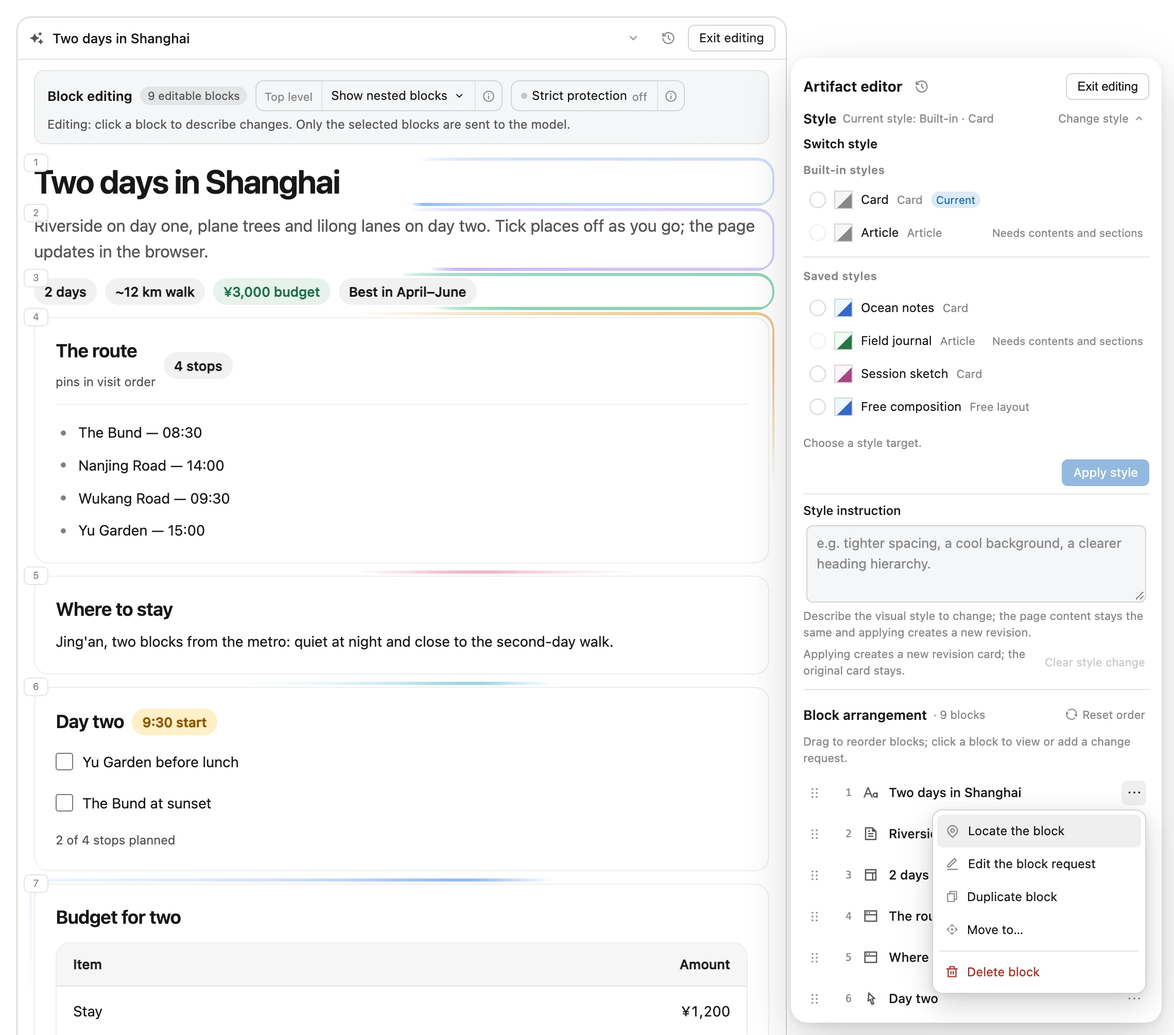
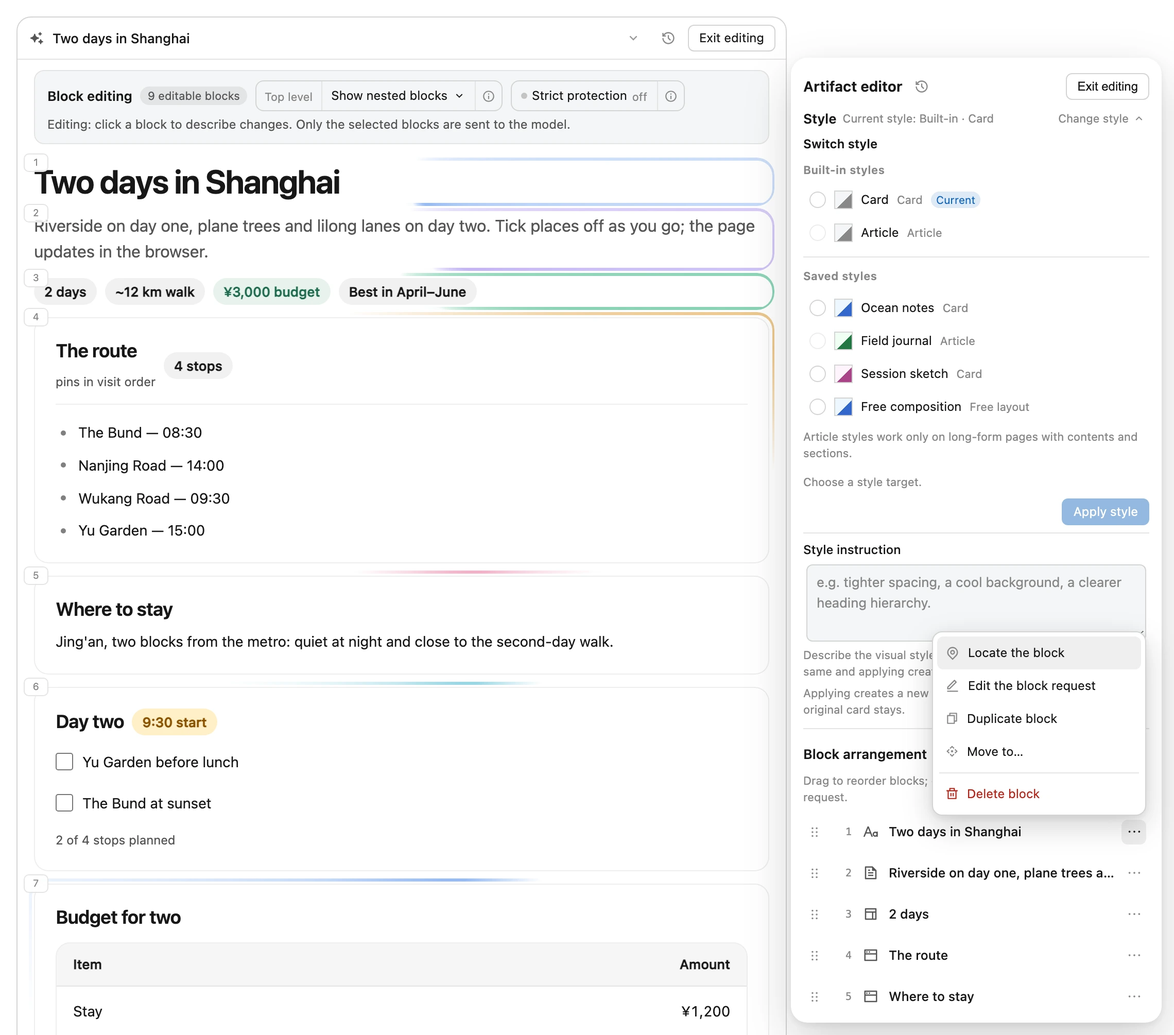
fix(editor): show one plain-language note for disabled Article targets
Replace the per-row disabled reason (which could clip in the narrow rail) with
one note under the target list, keep the rows disabled, and update the E2E
selector plus recaptured screenshots. Sync the final facts (client CSS 221.9 kB;
pack 65 files, 6,025,580 / 12,879,400 bytes).

Changed region(s): [[0.6851, 0.401, 0.9965, 0.9871], [0.9654, 0.6786, 0.9965, 0.7095], [0.9342, 0.7095, 0.9654, 0.7403]]

diff --git a/src/client/artifact-edit/EditPanel.tsx b/src/client/artifact-edit/EditPanel.tsx
@@ -899,6 +899,7 @@ export function EditPanel({ t, session, actions, closing = false, onOpenHistory,
   })
   const styleSwitchCanApply = styleSwitchChosen !== undefined && styleBlocker === undefined
   const styleStatusId = `${stylePanelId}-switch-status`
+  const articleNoteId = `${stylePanelId}-article-note`
   const styleStatusKey = styleBlocker === 'checking' ? 'edit.styleStatusChecking'
     : styleBlocker === 'stale' ? 'edit.styleStatusStale'
     : styleBlocker === 'busy' ? 'edit.styleSwitchBusy'
@@ -1579,7 +1580,6 @@ export function EditPanel({ t, session, actions, closing = false, onOpenHistory,
                         const saved = option.target.kind === 'template'
                         const firstSaved = saved && styleTargets.findIndex(candidate => candidate.target.kind === 'template') === index
                         const disabledReason = styleTargetDisableReason(option, articleProblem)
-                        const reasonId = `${stylePanelId}-target-${index}-reason`
                         const layoutLabel = option.layout === 'card'
                           ? t('edit.historyStyleCard')
                           : option.layout === 'article' ? t('edit.historyStyleArticle') : t('edit.historyStyleFree')
@@ -1613,7 +1613,7 @@ export function EditPanel({ t, session, actions, closing = false, onOpenHistory,
                                 data-current={current ? 'true' : undefined}
                                 checked={checked}
                                 disabled={disabledReason !== undefined}
-                                aria-describedby={disabledReason === undefined ? undefined : reasonId}
+                                aria-describedby={disabledReason === undefined ? undefined : articleNoteId}
                                 onChange={() => {
                                   if (disabledReason !== undefined) return
                                   actions.selectStyleTarget(option.target, option.layout)
@@ -1632,14 +1632,14 @@ export function EditPanel({ t, session, actions, closing = false, onOpenHistory,
                               <span className="dsh-iui-edit-style-target-name">{option.name}</span>
                               <span className="dsh-iui-edit-style-target-meta">{layoutLabel}</span>
                               {current ? <span className="dsh-iui-edit-style-current-badge" data-dsh-iui-edit-style-current-badge>{t('edit.styleSwitchCurrentBadge')}</span> : null}
-                              {disabledReason === undefined ? null : (
-                                <span id={reasonId} className="dsh-iui-edit-style-target-reason" data-dsh-iui-edit-style-target-reason>{t('edit.styleTargetArticle')}</span>
-                              )}
                             </label>
                           </div>
                         )
                       })}
                     </div>
+                    {styleTargets.some(option => styleTargetDisableReason(option, articleProblem) === 'article') ? (
+                      <p id={articleNoteId} className="dsh-iui-edit-style-hint" data-dsh-iui-edit-style-article-note>{t('edit.styleTargetArticle')}</p>
+                    ) : null}
                     <p id={styleStatusId} className="dsh-iui-edit-style-status" role="status" data-dsh-iui-edit-style-status>{t(styleStatusKey)}</p>
                     <div className="dsh-iui-edit-style-switch-foot">
                       <button

diff --git a/src/shared/locales.ts b/src/shared/locales.ts
@@ -349,7 +349,7 @@ export const zh = {
   'edit.styleSwitchGroup': '样式切换',
   'edit.styleBuiltinGroup': '内置样式',
   'edit.styleSwitchNote': '立即生效，不调用模型；只换外观，内容和结构不变。',
-  'edit.styleTargetArticle': '需要目录和章节',
+  'edit.styleTargetArticle': '文章样式只适用于带目录和章节的长文。',
   'edit.styleStatusChecking': '正在检查修订…',
   'edit.styleStatusStale': '此修订不是最新；打开最新修订后再切换。',
   'edit.styleStatusDirty': '先发送或清除当前的区块修改。',
@@ -894,7 +894,7 @@ export const en: Record<keyof typeof zh, string> = {
   'edit.styleSwitchGroup': 'Switch style',
   'edit.styleBuiltinGroup': 'Built-in styles',
   'edit.styleSwitchNote': 'Applies instantly without a model call; only the look changes, not the content or structure.',
-  'edit.styleTargetArticle': 'Needs contents and sections',
+  'edit.styleTargetArticle': 'Article styles work only on long-form pages with contents and sections.',
   'edit.styleStatusChecking': 'Checking the latest revision…',
   'edit.styleStatusStale': 'This revision is not the latest; open the latest revision before switching.',
   'edit.styleStatusDirty': 'Send or clear the current block changes first.',

diff --git a/src/client/artifact-edit/artifact-edit.css b/src/client/artifact-edit/artifact-edit.css
@@ -1010,15 +1010,6 @@
   opacity: 0.45;
 }
 
-.dsh-iui-edit-style-target-reason {
-  flex: none;
-  margin-left: auto;
-  color: var(--dsw-alias-label-tertiary);
-  font-size: 10.5px;
-  line-height: 16px;
-  white-space: nowrap;
-}
-
 .dsh-iui-edit-style-status {
   margin: 6px 0 2px;
   color: var(--dsw-alias-label-tertiary);

diff --git a/CHANGELOG.md b/CHANGELOG.md
@@ -11,7 +11,7 @@ been published yet.
 
 - **Revision history supports deletion.** Recorded revisions now expose an icon-only trash Delete action (with an accessible label) behind an inline confirmation. The authenticated revision probe route accepts `DELETE` for the same artifact/revision identity; the Host deletes the durable record and its retained program, refuses the initial render, and refuses a revision that is still another revision's base (`409 revision_referenced`). Deleting the current/latest record is allowed and the next newest record becomes latest. The client removes matching local revision cards and refreshes the open history; already-rendered model cards are not removed. No new durable field or history source enum value is introduced.
 
-- **Deterministic style switching in the Artifact editor (zero model).** The style section can now switch a rendered page to a built-in Card/Article layout or a visible saved template without a model turn: the client previews the template theme and Article shell locally, and Apply records a new revision with the same program and the resolved `style`/`styleId` (a result-owned temporary snapshot is dropped; built-in Free is rejected, Free only through a saved free template). The existing authenticated `POST /api/intelligent-ui/artifact-structure` gains a request-level `targetStyle` plus empty `operations` under a single-intent contract; the Host resolves durable targets (`style_missing` for invisible/deleted session templates), reuses the exact Toc/Section+anchor article predicate (moved into `src/host/program-validation.ts`), verifies the claimed base style identity for recorded base revisions (revision ≥ 2; revision 1 has no stored record, 409 `base_style_mismatch`, nothing written), applies the no-op/drop-snapshot rules, and records a `struct_` revision without `editedBlockIds` as the switch signature. No new durable revision fields or history enum values: old clients see a structure revision, new clients label it as a style switch, and an optional `styleSwitch` capability bit hides the picker on old Hosts. Revisions are local cards only (not in transcript replay/export) and template directives do not reflow content — both documented as limits. Verification: Node **625/625** (Host **301**, Client **303**, packaging **21**); browser 9/9, `artifact-edit` **500 checks**; `npm run pack:check` **65 files**, **6,033,850** bytes packed, **12,886,996** bytes unpacked.
+- **Deterministic style switching in the Artifact editor (zero model).** The style section can now switch a rendered page to a built-in Card/Article layout or a visible saved template without a model turn: the client previews the template theme and Article shell locally, and Apply records a new revision with the same program and the resolved `style`/`styleId` (a result-owned temporary snapshot is dropped; built-in Free is rejected, Free only through a saved free template). The existing authenticated `POST /api/intelligent-ui/artifact-structure` gains a request-level `targetStyle` plus empty `operations` under a single-intent contract; the Host resolves durable targets (`style_missing` for invisible/deleted session templates), reuses the exact Toc/Section+anchor article predicate (moved into `src/host/program-validation.ts`), verifies the claimed base style identity for recorded base revisions (revision ≥ 2; revision 1 has no stored record, 409 `base_style_mismatch`, nothing written), applies the no-op/drop-snapshot rules, and records a `struct_` revision without `editedBlockIds` as the switch signature. No new durable revision fields or history enum values: old clients see a structure revision, new clients label it as a style switch, and an optional `styleSwitch` capability bit hides the picker on old Hosts. Revisions are local cards only (not in transcript replay/export) and template directives do not reflow content — both documented as limits. Verification: Node **625/625** (Host **301**, Client **303**, packaging **21**); browser 9/9, `artifact-edit` **500 checks**; `npm run pack:check` **65 files**, **6,025,580** bytes packed, **12,879,400** bytes unpacked.
 - **Natural-language style editing inside the Artifact editor (B1).** The edit canvas gains a style section: a bounded instruction (max 2000 chars) asks the model to restyle the rendered page while keeping its recorded layout (card/article/free never cross). The edit request is now a discriminated `block`/`style` union; the block envelope header and program body stay compatible (the prose is now generated from the shared contract helper, so the whole serialized text is not byte-identical), and the style variant carries no block/arrangement/global fields. A style request is applied with `render_ui` exactly once (`editRequestId` + complete program + recorded style + complete `temporaryStyle`, no `styleId`); the Host accepts the model-approved snapshot only because the pending style request authorizes it, never auto-applies a style request without an explicit selector, rejects a style apply while an on-demand operation is bound (no double result-snapshot write), shares one snapshot validator with on-demand, records the revision with the model snapshot (no `styleId`/`editedBlockIds`), treats an unchanged program+snapshot as a no-op, and adds a preservation warning for a wholesale redesign. The editor hides the legacy footer Adjust style action when the Host advertises the capability and the card is editable (old Hosts or non-editable cards keep the fallback); Save as template stays. Root-cause fix: a revision carrying a `temporaryStyle` now registers its ResultStore snapshot under the revision id before the revision write, so Save as template (and the legacy footer action) work on edited/restored/structure temporary revisions; history infers these without new durable fields, and an optional `styleEdit` projection bit drives the capability without changing revision/history schemas. Verification: see the B1 entry of `docs/verification.md`.
 - **Artifact base registration lifecycle.** Cards rendered before the authoritative program registry existed had no Host state, so structure operations, revision history and restore failed differently (404 `artifact_missing`/`base_missing`, empty history, `source_missing`). A new authenticated `POST /api/intelligent-ui/artifact-base` closes the gap with one write-once registration transition that covers both legacy shapes — the initial anchor (`revisionId === artifactId`; revision 1 is program-only and revision records start at 2) and a recorded anchor (`revisionId` belongs to the artifact, e.g. after the program was LRU-evicted) — validates the program structurally, never overwrites a registered program (the same program is an idempotent no-op with `registered:false`, a different one is 409 `program_conflict`), writes no revision record, caps the body at 1 MiB (a 200k multi-byte program can exceed 300 KiB) and never echoes the program. The structure route now shares one `resolveArtifactBase` boundary (`artifact_missing` vs `base_missing` and their text unchanged), and the restore route keeps its existing program-only fallback unchanged. Accepted deviations are documented instead of hidden: a registered initial revision's `createdAt` becomes the registration time, untouched old cards stay unregistered (no backfill), and evicted non-current programs stay unrecoverable client-side. Verification: see the base-registration entry of `docs/verification.md`; the B2 gate is recorded in the B2 entry. Review follow-ups: a failed authoritative request invalidates the client registration cache so close/reopen genuinely retries (guarded against stale in-flight answers), the program store writes to disk before committing memory so a 500 leaves no phantom registration, an over-limit padded program is rejected as 400 `invalid_program`, and the restore route keeps its pre-existing program-only fallback (no semantics change).
 - **Old cards register automatically on first authoritative use.** The client's single `ensureArtifactBase` entry (single-flight plus a permanent per-artifact/revision cache) fires when the edit canvas opens (new, retained and submitted-reused drafts), before the structure preview and apply POSTs, before loading the revision-history dialog and before restore sends. It posts the rendered program once and caches `present`/`registered`; a 404 from an old Host caches an unsupported capability for that revision (degrade, never probe it again); network/other failures stay retryable and never surface to the user. Old-Host mixed deployments therefore degrade to instruction editing or a re-render instead of blocking. Verification: `test/host/artifact-base.test.mjs` (12 tests), `test/client/artifact-base.test.mjs` (5 tests), 3 new store tests in `test/client/artifact-edit.test.mjs`, and browser scenario 36 (one registration per legacy card, registration before structure requests, old-Host 404 degrade, new preview/props copy).
@@ -92,7 +92,7 @@ been published yet.
 - **The style picker visually separates Built-in styles from Saved styles.** The two groups now carry their own labels and a divider; all options stay in one mutually exclusive radio group, so the grouping is presentation only. Template swatches and layout labels are unchanged.
 
 - **The style-switch target controls are custom-drawn radios.** The B2 picker now draws its own 16px exact-circle ring/dot selected state instead of the native OS radio, while keeping the native input for keyboard and assistive technology; forced-colors keeps a visible checked/focus state. The style color swatches are now square color chips (canvas/accent): removing the border radius lets both theme colors fill all four corners instead of leaving transparent clipped corners. The `background-origin`/`background-clip` declarations now follow the `background` shorthand (which resets them to padding-box), so the gradient covers the border box and no 1px edge seam remains. The radio still resets the shell theme's global superellipse with `corner-shape: round` so it renders a true 16px circle; the editor screenshots were regenerated.
-- **Model tool-call contracts are now single-sourced and Host-coupled, and the third/fourth review rounds' edge paths are fixed.** `styleEditToolContract`/`buildStyleEditToolArgs` and `blockEditToolContract`/`buildBlockEditToolArgs` define the required/optional/forbidden render_ui and edit_ui_blocks arguments; the serializers emit a generated `Tool-call contract:` line, and Host coupling tests execute the helper-produced args (style builtin/saved/temporary; block fragments/order-only, including requestId/styleId selectors) so the envelope cannot drift from the Host. Block prose now escapes `<` in instructions/additions/global prose, and the parser only accepts a header on the next line and skips program-body markers (including a literal `<artifact-program>`). An order-only/global-only edit now reports the recorded title/styleId (including `presentationMeta`), temporary-style additions-only sends are allowed, pending block edits render the artifact's recorded style instead of the session template (no order-only template deadlock), recorded result-owned snapshots are authoritative for content edits, unsaved block drafts block a style switch, and the Article hint/dirty copy is accurate. The fourth-pass review fixes are included too: the route capability is updated from the deferred inject callback with a boolean-safe schema, block titles are escaped in prose, the sent-message summary uses the own-line program fence, and the E2E applies a reachable saved card template. Verification: Node **625/625** (Host **301**, Client **303**, packaging **21**); browser 9/9, `artifact-edit` **500 checks**; pack 65 files, **6,033,850** packed / **12,886,996** unpacked.
+- **Model tool-call contracts are now single-sourced and Host-coupled, and the third/fourth review rounds' edge paths are fixed.** `styleEditToolContract`/`buildStyleEditToolArgs` and `blockEditToolContract`/`buildBlockEditToolArgs` define the required/optional/forbidden render_ui and edit_ui_blocks arguments; the serializers emit a generated `Tool-call contract:` line, and Host coupling tests execute the helper-produced args (style builtin/saved/temporary; block fragments/order-only, including requestId/styleId selectors) so the envelope cannot drift from the Host. Block prose now escapes `<` in instructions/additions/global prose, and the parser only accepts a header on the next line and skips program-body markers (including a literal `<artifact-program>`). An order-only/global-only edit now reports the recorded title/styleId (including `presentationMeta`), temporary-style additions-only sends are allowed, pending block edits render the artifact's recorded style instead of the session template (no order-only template deadlock), recorded result-owned snapshots are authoritative for content edits, unsaved block drafts block a style switch, and the Article hint/dirty copy is accurate. The fourth-pass review fixes are included too: the route capability is updated from the deferred inject callback with a boolean-safe schema, block titles are escaped in prose, the sent-message summary uses the own-line program fence, and the E2E applies a reachable saved card template. Verification: Node **625/625** (Host **301**, Client **303**, packaging **21**); browser 9/9, `artifact-edit` **500 checks**; pack 65 files, **6,025,580** packed / **12,879,400** unpacked.
 
 - **Switching the Intelligent UI scope no longer forces the Display style panel open.** Choosing Off / This session only / Follow global now only sends the scope command; the style panel opens from exactly two explicit entries — the menu's **Display style** row, or clicking the already-active scope entry when it resolves to enabled (an off scope, or follow-global while the global switch is off, simply closes the menu). The style-panel E2E asserts no auto-open after a scope switch and covers both explicit routes.
 

diff --git a/docs/architecture.en.md b/docs/architecture.en.md
@@ -210,7 +210,7 @@ A rendered page can be revised in place inside its card: an **Edit** entry in th
 - **Request contract**: the existing authenticated struct route `POST /api/intelligent-ui/artifact-structure` gains a request-level `targetStyle` (discriminated union: `{kind:'builtin', layout:'card'|'article'}` or `{kind:'template', styleId:'cs_…'}`) and `sessionStyleScope` (the resolution scope for session templates, a selector rather than authorization). Single-intent rule: with `targetStyle`, `operations` must be empty (`style_with_operations`) and `preview` is unsupported (`preview_not_supported`); without a target the previous non-empty-operations semantics stay. Targets are durable identities only — built-in layouts or visible saved templates; no client snapshot/directives/theme is ever accepted, and built-in `free` is rejected (free only through a saved free template).
 - **Host execution**: the target identity is resolved Host-side (builtin → layout; template → `styles.resolve(styleId, sessionStyleScope)`, invisible/deleted → 404 `style_missing`); an Article target reuses the exact Toc/Section + anchor predicate render_ui uses (now `src/shared/article-layout.ts::describeArticleLayoutProblem`, shared by the Host and the client) → 400 `article_unavailable`; when recording, for a base that already has a revision record (revision ≥ 2) the client's claimed base `style`/`styleId` must match the authoritative record (otherwise 409 `base_style_mismatch`, nothing written — applied to those struct requests, fixing the previous body-identity trust); the initial revision 1 has no stored record, so its identity still comes from the request/registration. A base without a temporary snapshot whose identity already equals the target → 400 `no_change`; a temporary-style base with any durable target is always a change (the snapshot is dropped). On success the program is **byte-identical** to the base, `style`/`styleId` come from the resolved target, no `temporaryStyle`/`editedBlockIds` are written, and the `struct_` revision id, `latest+1`, branch, idempotency ledger, program registry and response shape are unchanged.
 - **History/compatibility**: no new durable revision fields or `ArtifactHistorySource` values. A `struct_` revision without `editedBlockIds` is the deterministic style-switch signal: the Host still reports source `structure` (old clients show "structure operation" and restore/branch normally), while new clients label it as a style switch using that convention. Old Host + new client: the missing capability hides the picker; new Host + old client: nothing visible changes.
-- **Client/UI**: the edit-panel style section adds a "Switch style" single-intent radio picker; targets are shown as two labeled groups with a divider — Built-in styles and Saved styles — inside one mutually exclusive radiogroup (built-in Card/Article; saved templates with swatches and layout). The client uses the shared Article predicate to disable Article rows up front with a one-line reason when the program has no usable Toc/Section/anchors. Exactly one status line explains the current state (checking / not the latest / dirty block draft / style instruction pending / choose a target / unavailable / already current / ready / branch / temporary style), replacing the previous permanent notes. Hover/focus previews the theme and Article wrapper locally, and an explicit "Apply style" sends the request (the programmatic open-focus does not preview). A non-branch older revision disables Apply; an explicit branch is allowed and explained. Success adds a local style revision card (`kind:'style'`), closes the editor and creates no composer chip; failures map `style_missing`/`article_unavailable`/`base_not_latest`/`base_style_mismatch`/`no_change` to inline copy; `style_missing` triggers a catalog refresh. The structure request reuses `styleSwitchOperationId`: after a lost response the retry converges through the Host idempotency ledger.
+- **Client/UI**: the edit-panel style section adds a "Switch style" single-intent radio picker; targets are shown as two labeled groups with a divider — Built-in styles and Saved styles — inside one mutually exclusive radiogroup (built-in Card/Article; saved templates with swatches and layout). The client uses the shared Article predicate to disable Article rows up front when the program has no usable Toc/Section/anchors, with one plain-language note under the list. Exactly one status line explains the current state (checking / not the latest / dirty block draft / style instruction pending / choose a target / unavailable / already current / ready / branch / temporary style), replacing the previous permanent notes. Hover/focus previews the theme and Article wrapper locally, and an explicit "Apply style" sends the request (the programmatic open-focus does not preview). A non-branch older revision disables Apply; an explicit branch is allowed and explained. Success adds a local style revision card (`kind:'style'`), closes the editor and creates no composer chip; failures map `style_missing`/`article_unavailable`/`base_not_latest`/`base_style_mismatch`/`no_change` to inline copy; `style_missing` triggers a catalog refresh. The structure request reuses `styleSwitchOperationId`: after a lost response the retry converges through the Host idempotency ledger.
 - **Limits**: this switches identity + shell + theme; template `directives` do not reflow existing content (that needs a model render). Saved templates are live references: changing a template theme affects older switch revisions that reference it, and deleting it falls back to the built-in theme (theme is not frozen per revision). A branch switch uses the explicit branch; it is never automatic. Deterministic style revisions are local revision cards: they do not enter the assistant message, transcript replay, image/HTML export or other devices (same limitation as structure/property revisions). The H4 boundary is fixed — a pending block edit renders the artifact's recorded style/template, so render_ui order-only/global-only edits are no longer rejected because the session style differs (content edits through `edit_ui_blocks` are unaffected). `sessionStyleScope` is only template visibility scope, not an authorization boundary. Save-as-template applies only to theme-bearing temporary style results (B1/on-demand); a switch result is not saved, and saving creates no revision.
 - **Verification**: see the host/client/browser tests and the final gate record (contract unit tests, struct-route matrix with mutation checks, client POST/dirty/local-revision/history-label tests, E2E scenario 40).
 
@@ -270,7 +270,7 @@ A rendered page can be revised in place inside its card: an **Edit** entry in th
 - **Panel ↔ canvas mapping, focus mode and pending markers (follow-up)**: arrangement/nested/request rows and canvas blocks hover-sync both ways (neutral 2px blue frame + 4% wash while not selected/edited); root blocks always show their page-order index (nested blocks only on hover); a pending row keeps its page index and adds a request-number badge after the title with a tooltip; each row gains a **More** menu (locate/edit/duplicate/move/delete); locating reuses the 900ms flash and row-body click still locates. Opening any block editor dims the other blocks with a scrim while the edited block keeps its frame; Save/Cancel clears it. Save no longer leaves the big selected frame: the block becomes a quiet pending marker (dot + request number) and its root orbit glow runs slower/dimmer (5.2s, 0.3); the `selection` data is unchanged and still ships on send. Deterministic Apply/structure operations keep the existing record-then-exit behaviour (1A).
 - **State consistency**: the unsent-content guard uses `hasArtifactEditContent` (including nested ordering); async structure/property failures patch the current session only (no resurrecting closed/submitted editors); nested kinds reuse the shared mapping; the quick panel focuses its first control, exposes `aria-busy`, `edit.propsUnit` and stale-base/no-change/busy copy.
 - **Limits and budget**: only the Divider/Spacer properties above are adjustable; property revisions are local-storage cards like the other local revisions and do not participate in export; custom CSS colours are constrained by the renderer's `isSafeCss` and a conservative Host format check; the old `.dsh-iui-block` wrapper boxes no longer exist, so tests use the overlay hit/frame selectors. The CST node budget is 200 (was 60): long article pages such as the 105-node Solid 2.0 guide now expose nested Spacers and quick adjust, and a 66-node fixture regresses this in the browser suite.
-- **Verification**: **625/625** Node tests; 9/9 browser suites; `artifact-edit` **500 checks** (layout parity, nested preview, quick panel, custom dropdowns/slider, slider live preview, pinned popover/stable on unit switch, large-page nesting, deterministic request body, property revision card, dirty refusal, dynamic fallback, apply disabled/focus); `nested-edit-renderer` 75; client CSS 222.0 kB; standalone 3.33 MB + 514.4 kB; pack 65 files 6.04 MB / 12.88 MB; harness screenshots `.tmp-report/harness-quick-props.png` and `.tmp-report/harness-pending-block.png`.
+- **Verification**: **625/625** Node tests; 9/9 browser suites; `artifact-edit` **500 checks** (layout parity, nested preview, quick panel, custom dropdowns/slider, slider live preview, pinned popover/stable on unit switch, large-page nesting, deterministic request body, property revision card, dirty refusal, dynamic fallback, apply disabled/focus); `nested-edit-renderer` 75; client CSS 221.9 kB; standalone 3.33 MB + 514.4 kB; pack 65 files 6.04 MB / 12.88 MB; harness screenshots `.tmp-report/harness-quick-props.png` and `.tmp-report/harness-pending-block.png`.
 
 ### Artifact authoritative-state lifecycle and base registration (2026-11-07)
 
@@ -438,7 +438,7 @@ The skill files also ship with the package as an ordinary directory (`skills/`),
 - Structural delete is a persistent two-step flow inside the same menu: choosing Delete switches the menu to a dialog-semantics `data-dsh-iui-edit-structure-confirm` panel with quiet Cancel and danger-tinted Delete buttons, with no row tint or large pill. The confirmation only ends on Cancel, Delete, outside pointerdown, Escape, another structure action, preview opening, busy or unmount. Focus starts on Cancel and returns to the row trigger on cancel/leave; the live region announces once.
 - The input focus orbit applies only to text inputs, textareas and contenteditable fields; native selects and the quick-adjust dropdown triggers keep their normal menu focus treatment.
 - The block instruction popover now computes a preferred top and clamps it into `[12, viewportHeight - 12 - measuredHeight]` (left was already clamped), so anchors scrolled out of view can no longer place the textarea offscreen. The popover scroll box reserves 4px of bottom padding inside its `overflow-y: auto` padding box, so the focused textarea focus cue also keeps visible room.
-- Verification: 625/625 Node tests (Host 301, Client 303, packaging 21), 9/9 browser suites, `artifact-edit` 500 checks (menu keyboard/focus/Tab/forced-colors, input orbit, rounded/inset geometry, enter/exit animation names, `data-closing`, persistent delete confirmation, Cancel/Delete preview, popover clamps and the real 1180px shell fit), `nested-edit-renderer` 75, nested CSS contract 28/28 + 5/5. Build: host 837.6 kB, client 4.04 MB (js 3.82/CSS 222.0), pack 65 files 6.04/12.88 MB.
+- Verification: 625/625 Node tests (Host 301, Client 303, packaging 21), 9/9 browser suites, `artifact-edit` 500 checks (menu keyboard/focus/Tab/forced-colors, input orbit, rounded/inset geometry, enter/exit animation names, `data-closing`, persistent delete confirmation, Cancel/Delete preview, popover clamps and the real 1180px shell fit), `nested-edit-renderer` 75, nested CSS contract 28/28 + 5/5. Build: host 837.6 kB, client 4.04 MB (js 3.82/CSS 221.9), pack 65 files 6.04/12.88 MB.
 - Deployment: client-plugin changes require restarting `dsh-web`; a page refresh is not enough.
 
 ### Icon system: one Remix Icon family
@@ -447,7 +447,7 @@ The skill files also ship with the package as an ordinary directory (`skills/`),
 - The previous hand-drawn stroke set (16px-viewBox pencil, trash, duplicate, move, drag grip, refresh, close and type glyphs, plus the `✎` and `✦` characters) is gone, and the DSH primitives sparkle/chevron icons are no longer used for icons.
 - **Exception:** `Icon("…")` inside generated OpenUI programs is still resolved lazily by `src/lib/components/glyph.tsx` through `lucide-react/dynamic.mjs`, because those names are program data written by the model (existing programs use lucide names) rather than plugin chrome; switching them would break older programs.
 - Licensing: Remix Icon License v1.0 (see `licenses/remix-icon-LICENSE` and `NOTICE`).
-- Verification: 625/625 Node tests, 9/9 browser suites, `artifact-edit` 500 checks, `nested-edit-renderer` 75; build host 837.6 kB, client 4.04 MB (js 3.82 / CSS 222.0); pack 65 files 6.04 / 12.88 MB.
+- Verification: 625/625 Node tests, 9/9 browser suites, `artifact-edit` 500 checks, `nested-edit-renderer` 75; build host 837.6 kB, client 4.04 MB (js 3.82 / CSS 221.9); pack 65 files 6.04 / 12.88 MB.
 
 ### Per-artifact revision history (user feedback)
 

diff --git a/docs/architecture.md b/docs/architecture.md
@@ -212,7 +212,7 @@ projection v6 在 enable/style/pending 之外携带可空 `onDemand`（operation
 - **请求契约**：既有认证 struct 路由 `POST /api/intelligent-ui/artifact-structure` 增加请求级 `targetStyle`（判别联合：`{kind:'builtin', layout:'card'|'article'}` 或 `{kind:'template', styleId:'cs_…'}`）与 `sessionStyleScope`（session 模板的解析作用域，选择器而非鉴权）。单意图规则：带 `targetStyle` 时 `operations` 必须为空（`style_with_operations`）、不支持 `preview`（`preview_not_supported`）；不带 target 时保持原有非空 operations 语义。目标只允许 durable 身份——内置布局或可见的已保存模板；不接收客户端快照/directives/theme，内置 `free` 直接拒绝（free 只能经已保存 free 模板）。
 - **Host 执行**：目标身份由 Host 解析（builtin → 布局；template → `styles.resolve(styleId, sessionStyleScope)`，不可见/已删除 → 404 `style_missing`）；Article 目标复用与 render_ui 完全一致的 Toc/Section + anchor 判定（已抽到 `src/shared/article-layout.ts::describeArticleLayoutProblem`，Host 与客户端共用同一实现）→ 400 `article_unavailable`；记录修订时，对已有修订记录（revision ≥ 2）的 base，要求客户端声明的 `style`/`styleId` 与权威记录一致（否则 409 `base_style_mismatch` 且不落盘；这些 struct 请求都校验，修复此前对已记录 base 直接信任 body 身份的问题）；初始 revision 1 没有存储记录，身份仍来自请求/登记；若 base 无临时样式且目标与 base 身份相同 → 400 `no_change`；临时样式 base + 任意 durable 目标总是变化（快照被丢弃）。成功后 program 与 base **逐字节相同**，`style`/`styleId` 来自解析后的目标，不写 `temporaryStyle`/`editedBlockIds`，沿用 `struct_` revision id、`latest+1`、branch、幂等 ledger、program registry 与响应结构。
 - **历史/兼容**：不新增 durable revision 字段或 `ArtifactHistorySource` 值。`struct_` 修订且没有 `editedBlockIds` 即确定性样式切换信号：Host `historySource` 仍为 `structure`（旧客户端按"结构操作"显示并可正常 restore/branch），新客户端按该约定显示"样式切换"标签。旧 Host + 新客户端：能力位缺失 → 隐藏 picker；新 Host + 旧客户端：无变化可见。
-- **客户端/UI**：编辑画布样式区新增「样式切换」单意图 radio picker，目标按「内置样式」与「已保存样式」两组展示并以分割线区分（同一 radiogroup，单选互斥；内置 Card/Article，已保存模板带色板与布局）。客户端用共享 Article 谓词预判：页面不满足 Toc/Section/anchor 时 Article 行直接禁用并给一行短原因；每次只显示一条状态（检查中／非最新／有区块草稿／已填样式说明／选择目标／不适用／当前已选／可应用／branch／临时样式），不再常驻多段说明。显式「应用样式」才发请求（展开时的程序化聚焦不触发预览）；非 branch 的旧修订禁用 Apply，显式 branch 允许并在状态行说明。成功记录本地样式修订卡（`kind:'style'`）、关闭编辑器、不产生 composer chip；失败按 `style_missing`/`article_unavailable`/`base_not_latest`/`base_style_mismatch`/`no_change` 映射内联文案；`style_missing` 后刷新模板目录。结构请求复用 `styleSwitchOperationId`：响应丢失后重试同一 operationId 由 Host 幂等 ledger 收敛。
+- **客户端/UI**：编辑画布样式区新增「样式切换」单意图 radio picker，目标按「内置样式」与「已保存样式」两组展示并以分割线区分（同一 radiogroup，单选互斥；内置 Card/Article，已保存模板带色板与布局）。客户端用共享 Article 谓词预判：页面不满足 Toc/Section/anchor 时 Article 行直接禁用，并在列表下用一行普通语言说明原因；每次只显示一条状态（检查中／非最新／有区块草稿／已填样式说明／选择目标／不适用／当前已选／可应用／branch／临时样式），不再常驻多段说明。显式「应用样式」才发请求（展开时的程序化聚焦不触发预览）；非 branch 的旧修订禁用 Apply，显式 branch 允许并在状态行说明。成功记录本地样式修订卡（`kind:'style'`）、关闭编辑器、不产生 composer chip；失败按 `style_missing`/`article_unavailable`/`base_not_latest`/`base_style_mismatch`/`no_change` 映射内联文案；`style_missing` 后刷新模板目录。结构请求复用 `styleSwitchOperationId`：响应丢失后重试同一 operationId 由 Host 幂等 ledger 收敛。
 - **限制**：这是"身份 + 外壳 + 主题"的切换，模板 `directives` 不会重排既有内容（需要模型重绘）；已保存模板是 live reference，修改主题会影响引用它的旧切换修订，删除模板后回退内置主题（当前不冻结每个修订的 theme）；branch 下的切换沿用显式 branch，不自动 branch；确定性样式修订是本地修订卡，不进入助理消息、transcript replay、图片/交互页面导出或其他设备（与结构/属性修订一致）；H4 已修——pending block edit 使用 artifact 记录样式/模板，`render_ui` 的 order-only/global-only 编辑不再按会话当前样式拒绝；`sessionStyleScope` 只是模板可见性作用域，不构成授权边界。保存模板只适用于带 theme 的临时样式结果（B1/按需），切换结果不保存；保存不产生修订。
 - **验证**：见对应 host/client/browser 测试与最终门禁记录（contract 单测、struct 路由矩阵与 mutation 检查、客户端 POST/dirty/本地修订/历史标签、E2E 场景 40）。
 
@@ -272,7 +272,7 @@ projection v6 在 enable/style/pending 之外携带可空 `onDemand`（operation
 - **列表↔画布映射、编辑聚焦与 pending 标记（追加）**：编排/嵌套/请求行 hover 与画布区块双向联动（中性蓝 2px 细框 + 4% 淡底，未选中/未编辑时显示）；根层常显页面顺序索引（嵌套块仅在 hover 时显示）；有 pending 请求的行仍保留页面序号，并在标题后显示带 tooltip 的请求序号 badge；行尾新增「更多」菜单（定位/编辑/复制/移动/删除；定位仍复用 900ms 脉冲），保留点击行主体定位。打开任一区块编辑器时，其余区块被 scrim 压暗，当前区块保留编辑框；Save/Cancel 关闭后 scrim 消失。Save 不再保留大选中框：改为「圆点 + 请求序号」的低调 pending 标记，pending 根层区块的 orbit glow 降速（5.2s）变淡（0.3）；`selection` 数据不变，发送时照常提交。确定性 Apply/结构操作仍按既定行为记录修订并退出编辑（1A 不变）。
 - **状态一致性**：未发送拦截统一用 `hasArtifactEditContent`（包含嵌套排序）；异步结构/属性请求失败只回写当前 session（不会复活已关闭/已提交的编辑器）；嵌套 kind 复用共享映射；快捷面板打开即聚焦、`aria-busy`、`edit.propsUnit`、stale-base/no-change/busy 文案齐全。
 - **限制与预算**：快捷调整只支持 Divider/Spacer 的上述属性；属性修订卡与其他本地修订一样只在 localStorage/触发 Turn 渲染，不参与导出；自定义 CSS 颜色由渲染器 `isSafeCss` 约束，Host 只做保守格式校验；根层 wrapper 已无盒子，依赖 `.dsh-iui-block` 盒子的旧样式/hook 不再存在（测试改为 overlay hit/frame 选择器）。CST 节点预算为 200（此前 60）：长文章页面（如 105 节点的 Solid 2.0 导览）现在可以找到嵌套 Spacer 并使用快捷调整；66 节点 fixture 在浏览器套件中回归。
-- **验证**：Node **625/625**；浏览器 9/9；`artifact-edit` **500 checks**（布局 parity、嵌套 preview、快捷面板、自绘下拉/滑块、滑块即时预览、popover 固定/单位切换不位移、大页面嵌套、确定性请求体、属性修订卡、dirty 拦截、动态回退、apply 禁用/焦点），`nested-edit-renderer` 75；CSS 客户端 222.0 kB；standalone 3.33 MB + 514.4 kB；pack 65 files 6.04 MB / 12.88 MB；harness 截图 `.tmp-report/harness-quick-props.png`、`.tmp-report/harness-pending-block.png`。
+- **验证**：Node **625/625**；浏览器 9/9；`artifact-edit` **500 checks**（布局 parity、嵌套 preview、快捷面板、自绘下拉/滑块、滑块即时预览、popover 固定/单位切换不位移、大页面嵌套、确定性请求体、属性修订卡、dirty 拦截、动态回退、apply 禁用/焦点），`nested-edit-renderer` 75；CSS 客户端 221.9 kB；standalone 3.33 MB + 514.4 kB；pack 65 files 6.04 MB / 12.88 MB；harness 截图 `.tmp-report/harness-quick-props.png`、`.tmp-report/harness-pending-block.png`。
 
 ### Artifact 权威状态生命周期与基础登记（2026-11-07）
 
@@ -441,7 +441,7 @@ free 临时结果或选中的自由模板中，下述页面形态与排版指导
 - 编排行右侧是一个正常的 24px「更多」触发器 `[data-dsh-iui-edit-row-menu]`，不再有覆盖文字的动作组；它打开 portal 菜单，包含定位、编辑、复制、移动到…、删除五项（`data-dsh-iui-edit-locate` / `-structure-edit` / `-structure-duplicate` / `-move` / `-structure-delete`），菜单项有 role=menuitem、方向键/Home/End、Escape、外部点击和焦点返回；触发器在正常 flow 中，标题不会与按钮重叠。
 - 结构性删除是菜单内的持久两态确认：选择「删除区块」后，同一个菜单切换为 `data-dsh-iui-edit-structure-confirm` 的安静 Cancel 与 danger-tinted Delete 两个按钮（该步骤用 dialog 语义），无行红底/大红 pill；确认态只在 Cancel、Delete、外部点击、Escape、其它结构动作、预览打开、busy 或卸载时结束。焦点进入时落到 Cancel，取消/离开时回到行触发器；live region 播报一次。
 - Block 指令 popover 现在先把目标 top 计算为 `preferredTop`，再统一 clamp 到 `[12, viewportHeight - 12 - measuredHeight]`（left 原本已 clamp），所以锚点滚出视口时输入框不会再被裁切到视口外。popover 滚动容器在 `overflow-y: auto` 的 padding box 内保留 4px 底部内边距，输入框获得焦点时的轨道光晕也留出了可见余量。
-- 验证：Node **625/625**（Host 301、Client 303、packaging 21）；浏览器 9/9；`artifact-edit` **500 checks**（菜单/键盘焦点/Tab/forced-colors、输入轨道光晕、圆角/inset、enter/exit 动画名、`data-closing`、删除确认持久 / Cancel / Delete preview、popover 四边 clamp、真实 1180 shell fit）；`nested-edit-renderer` 75；`nested-css-contract` 28/28 + 5/5。构建 host 837.6 kB、client 4.04 MB（js 3.82 / css 222.0）；pack 65 files 6.04 / 12.88 MB。
+- 验证：Node **625/625**（Host 301、Client 303、packaging 21）；浏览器 9/9；`artifact-edit` **500 checks**（菜单/键盘焦点/Tab/forced-colors、输入轨道光晕、圆角/inset、enter/exit 动画名、`data-closing`、删除确认持久 / Cancel / Delete preview、popover 四边 clamp、真实 1180 shell fit）；`nested-edit-renderer` 75；`nested-css-contract` 28/28 + 5/5。构建 host 837.6 kB、client 4.04 MB（js 3.82 / css 221.9）；pack 65 files 6.04 / 12.88 MB。
 - 部署：client 插件改动必须重启 `dsh-web` 后才会加载；页面刷新不足。
 
 ### 图标系统：统一 Remix Icon
@@ -450,7 +450,7 @@ free 临时结果或选中的自由模板中，下述页面形态与排版指导
 - 之前手绘的 stroke 图标（16px viewBox 的铅笔/垃圾桶/复制/移动/拖拽柄/刷新/关闭/类型图标，以及字符 `✎`、`✦`）全部替换；DSH primitives 的 `IconSparkleRegular` / `IconChevronDownOutlineRegular` 也不再用于图标。
 - **例外**：OpenUI 程序内容里的 `Icon("…")` 仍由 `src/lib/components/glyph.tsx` 用 `lucide-react/dynamic.mjs` 惰性解析——那是模型生成的程序数据（历史程序里写的是 lucide 名称），不是插件 chrome，替换会破坏既有程序。
 - 许可：Remix Icon License v1.0（见 `licenses/remix-icon-LICENSE` 与 `NOTICE`）。
-- 验证：Node 625/625、浏览器 9/9、`artifact-edit` 500 checks、`nested-edit-renderer` 75；构建 host 837.6 kB、client 4.04 MB（js 3.82 / css 222.0）；pack 65 files 6.04 / 12.88 MB。
+- 验证：Node 625/625、浏览器 9/9、`artifact-edit` 500 checks、`nested-edit-renderer` 75；构建 host 837.6 kB、client 4.04 MB（js 3.82 / css 221.9）；pack 65 files 6.04 / 12.88 MB。
 
 ### 按 Artifact 的修订历史（用户反馈新增）
 

diff --git a/docs/plans/style-edit-integration/README.md b/docs/plans/style-edit-integration/README.md
@@ -36,7 +36,7 @@
 
 样式区保留一个入口，目标按「内置样式 / 已保存样式」分组，中间分割线；所有目标同一 radio group，单选互斥。
 
-- Article 行不可用时禁用，并给一行短原因（需要目录和章节）。
+- Article 行不可用时禁用，并在列表下用一行普通语言说明原因。
 - 每次只显示一条状态：检查中／非最新／有区块草稿／已填样式说明／选择目标／不适用／当前已选／可应用；应用后分支或临时样式状态使用对应提示。
 - 移除常驻的 3–4 段说明；零模型、临时样式替换等信息合入状态行。
 
@@ -51,4 +51,4 @@
 
 ## 验证
 
-Node **625/625**（Host 301、Client 303、packaging 21）；浏览器 9/9，`artifact-edit` **500 checks**；build host 837.6 kB、client 4.04 MB（js 3.82 / CSS 222.0）；pack 65 files / 6,033,850 packed / 12,886,996 unpacked。新增 client 纯函数测试、store 重试测试、E2E Article 置灰/状态行/键盘跳过禁用项场景。
+Node **625/625**（Host 301、Client 303、packaging 21）；浏览器 9/9，`artifact-edit` **500 checks**；build host 837.6 kB、client 4.04 MB（js 3.82 / CSS 221.9）；pack 65 files / 6,025,580 packed / 12,879,400 unpacked。新增 client 纯函数测试、store 重试测试、E2E Article 置灰/状态行/键盘跳过禁用项场景。

diff --git a/docs/verification.md b/docs/verification.md
@@ -556,7 +556,7 @@ Composer「显示样式」面板接入与设置页相同的模板交换入口：
 
 | 命令 / 检查 | 本轮结果 |
 | --- | --- |
-| `npm run check` | PASS；Node **625/625** = Host **301** + Client **303** + packaging **21**；build host **837.6 kB**、client **4.04 MB**（js 3.82 / CSS 222.0）、standalone 3.33 + 514.4 |
+| `npm run check` | PASS；Node **625/625** = Host **301** + Client **303** + packaging **21**；build host **837.6 kB**、client **4.04 MB**（js 3.82 / CSS 221.9）、standalone 3.33 + 514.4 |
 | `npm run test:browser` | PASS；9/9 套件；`artifact-edit` **500 checks**、`nested-edit-renderer` 75 |
-| `npm run pack:check` | PASS；**65** 个文件，压缩 **6,033,850** 字节，解包 **12,886,996** 字节 |
+| `npm run pack:check` | PASS；**65** 个文件，压缩 **6,025,580** 字节，解包 **12,879,400** 字节 |
 | 结构 | 双语标题 parity、本地链接/锚点、截图引用、`git diff --check` 全 OK |

diff --git a/docs/verification.en.md b/docs/verification.en.md
@@ -576,7 +576,7 @@ Four structural guards added after the review loop:
 
 | Command / check | Result |
 | --- | --- |
-| `npm run check` | PASS; **625/625** Node tests = Host **301** + Client **303** + packaging **21**; build host **837.6 kB**, client **4.04 MB** (js 3.82 / CSS 222.0), standalone 3.33 + 514.4 |
+| `npm run check` | PASS; **625/625** Node tests = Host **301** + Client **303** + packaging **21**; build host **837.6 kB**, client **4.04 MB** (js 3.82 / CSS 221.9), standalone 3.33 + 514.4 |
 | `npm run test:browser` | PASS; 9/9 suites; `artifact-edit` **500 checks**, `nested-edit-renderer` 75 |
-| `npm run pack:check` | PASS; **65** files, **6,033,850** bytes packed, **12,886,996** bytes unpacked |
+| `npm run pack:check` | PASS; **65** files, **6,025,580** bytes packed, **12,879,400** bytes unpacked |
 | Structure | bilingual heading parity, local links/anchors, screenshot references, `git diff --check` all OK |
